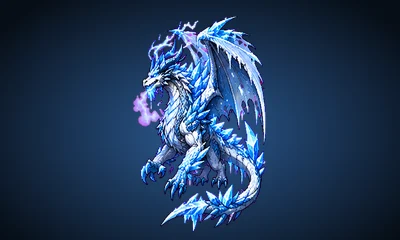
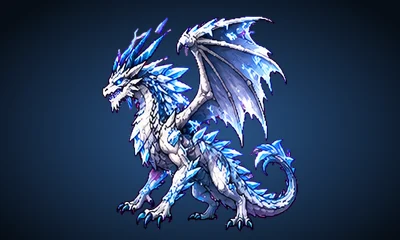
WIP b167: redrawn attack rows for six tower monsters
Claude-Session: https://claude.ai/code/session_01QmQpWu4DjinCPskbkXfnjC

Changed region(s): [[0.24, 0.0583, 0.75, 0.9625]]

diff --git a/tools/t167i.js b/tools/t167i.js
@@ -1,0 +1,6 @@
+const {chromium}=require('playwright');(async()=>{const b=await chromium.launch({executablePath:'/opt/pw-browsers/chromium'});const p=await b.newPage({viewport:{width:900,height:420},deviceScaleFactor:2});const e=[];p.on('pageerror',x=>e.push(x.message));const w=n=>new Promise(r=>setTimeout(r,n));
+await p.goto('file:///home/claude/pixeldeck/_t.html');await w(900);
+await p.evaluate(()=>{USER={guest:true,name:'G'};S=unlock(fresh());S.me={name:'G'};S.gift=true;S.n160=S.n165=S.n167=1;['h15','h13','h26'].forEach(id=>S.cards[id]={lv:90,exp:0});S.team=['h15','h13','h26'];S.cleared=200;S.auto=true;S.spd=1;S.tw={w:twWeek(),f:0};home()});
+for(const f of [50,90,70,30]){await p.evaluate(f=>{bt=null;busy=false;S.tw.f=f-1;twTok++;startTower(f).then(()=>{})},f);await w(1200);await p.evaluate(()=>{bt.en.forEach(x=>{x.hp=x.max=x.max*40;x.atk=1});});
+ for(let i=0;i<120;i++){await w(60);if(await p.evaluate(()=>!!document.querySelector('.fig.boss .spr.atk')))break}await w(230);await p.screenshot({path:'d_atk'+f+'.png'})}
+console.log(e);await b.close()})()

diff --git a/tools/towermon.py b/tools/towermon.py
@@ -7,7 +7,7 @@ TINT.update({'t01':(40,52,96),'t02':(20,70,76),'t03':(80,50,24),'t04':(20,40,70)
  'tb1':(50,60,100),'tb2':(20,80,50),'tb3':(120,40,10),'tb4':(40,80,130),'tb5':(130,100,30)})
 # file, id, body height in the 252x204 cell, hand cuts in the attack row (x in the source picture) where two frames touch
 J={'09':('t01',132,()),'10':('t02',136,()),'11':('t03',118,()),'12':('t04',136,()),'13':('t05',132,()),'14':('t06',120,()),'15':('t07',138,()),'16':('t08',134,()),'17':('t09',138,()),'18':('t10',136,()),
-   '19':('tb1',184,()),'20':('tb2',182,()),'21':('tb3',184,()),'22':('tb4',180,()),'23':('tb5',184,())}
+   '19':('tb1',184,()),'20':('tb2',182,()),'21':('tb3',158,()),'22':('tb4',180,()),'23':('tb5',184,())}
 import os
 only=[a for a in sys.argv[1:] if a!='v3']
 # ---- second cutter, for sheets whose frames touch or whose painted effects reach into the next frame: each row is cut at the emptiest column near every sixth of the width;
@@ -31,7 +31,7 @@ def slices(rgba,y0,y1,atk):
         ys,xs=np.where(c[...,3]>40);X0,X1,Y0,Y1=xs.min(),xs.max(),ys.min(),ys.max();out.append((c[Y0:Y1+1,X0:X1+1],(bb[0]-X0,bb[1]-X0,bb[2]-Y0,bb[3]-Y0)))
     return out,cuts
 # sheets whose attack row cannot be cut cleanly (a beam or blast painted across two frames): the attack row repeats the idle frames until a redrawn sheet arrives; the game still lunges and plays its own hit effect
-ATK_IDLE={'t06','t08','tb2','tb3','tb4','tb5'}
+ATK_IDLE=set()
 def build3(src,name,target_h,maxw=236):
     rgba=key(Image.open(U+src));rb=rows2(rgba);idle,c1=slices(rgba,*rb[0],0);atk,c2=slices(rgba,*rb[1],1)
     if name in ATK_IDLE:atk=idle
